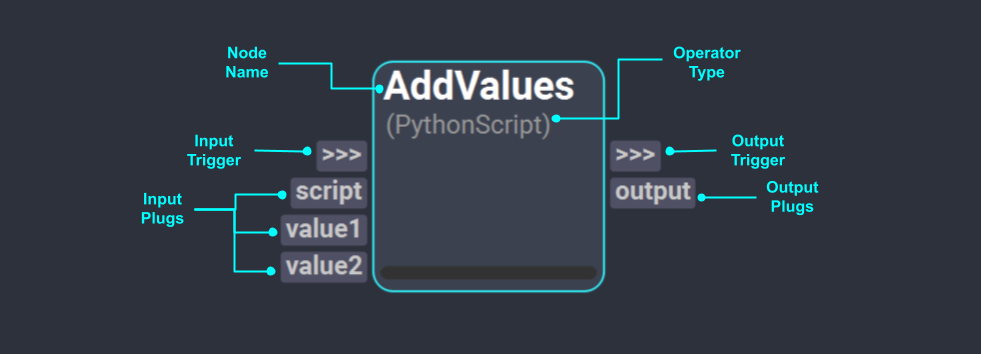
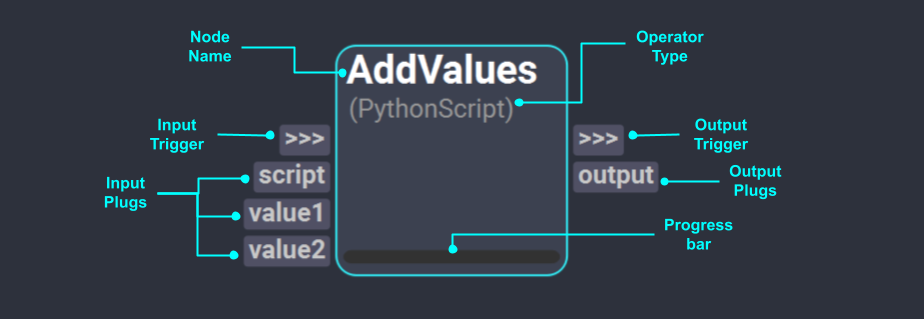
Added progress bar information

Changed region(s): [[0.0909, 0.0846, 0.8485, 0.8746]]

diff --git a/docs/reference/nodes.md b/docs/reference/nodes.md
@@ -4,7 +4,7 @@ Nodes are the graphic units that build up the workflow. Each node is associated 
 
 ## Node Interface
 
-There are four main interface elements that compose the node: the node's name, the operator type, the trigger plugs and the i/o's plugs.
+There are five main interface elements that compose the node: the node's name, the operator type, the trigger plugs and the i/o's plugs.
 
 ![Node UI](../../images/node_ui.png "Node UI")  
 
@@ -12,6 +12,7 @@ There are four main interface elements that compose the node: the node's name, t
 * **Operator Type**: The associated operator to the node. It determines the native plugs of the node.
 * **Trigger Plugs**: The trigger plugs (`>>>`) are plugs meant to define the node's position in the execution graph. They do not pass any data. If the node has other input or output plugs connected to another node, the trigger plugs do not need to be connected; otherwise, it is recommended to connect these plugs to indicate when the node needs to get computed.
 * **I/O's Plugs**: Input and output plugs are define the incoming data required by the operator and the resulting data after it is computed. 
+* **Progress bar**: A visual indicator of the percentage of the node's execution that is complete. 
 
 ### Inspect a Node
 
